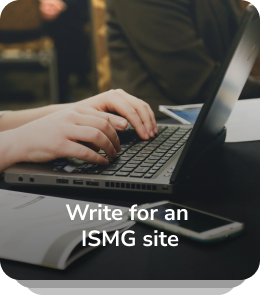
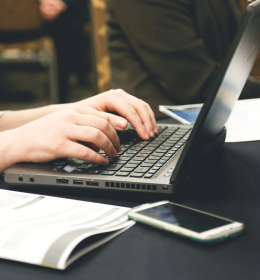
changes

diff --git a/index.html b/index.html
@@ -27,11 +27,11 @@
                 <div class="head-text font-weight-bold pb-4">Personal Branding
                     Opportunities</div>
                 <div class="body-text">Share your influence and build your
-                    personal brand using a variety of
+                    personal brand using a variety o f
                     opportunities
                     provided by
                     CyberEdBoard and ISMG. Simply identify a branding opportunity you would like to contribute to and
-                    send a message to <a class="text-decoration-none text-white"
+                    send a message to <a class="text-white font-weight-bold"
                         href="mailto:info@cyberedboard.io"><i>info@cyberedboard.io</i></a> to schedule.
                 </div>
             </div>
@@ -40,33 +40,100 @@
             <div class="container">
                 <div class="row">
                     <div class="col-lg-3 col-md-4 col-sm-6 col-12 padding-row">
-                        <a href="src/profile-leadership/profile-leadership.html"><img class="img-fluid"
-                                src="assets/images/personal-branding/leadership.png" alt="Profiles in Leadership "></a>
+                        <a href="src/profile-leadership/profile-leadership.html">
+                            <div class="overlay-one">
+                                <div class="overlay-two">
+                                    <img class="img-fluid img-border img-zindex"
+                                        src="assets/images/personal-branding/write-for-site.png"
+                                        alt="Profiles in Leadership ">
+                                    <div class="img-text">
+                                        Profiles in
+                                        Leadership
+                                    </div>
+                                </div>
+                            </div>
+                        </a>
                     </div>
                     <div class="col-lg-3 col-md-4 col-sm-6 col-12 padding-row">
-                        <a href="src/expert-insight-page/expert-insight.html"><img class="img-fluid"
-                                src="assets/images/personal-branding/expert-interview.png"
-                                alt="Expert Insights Interviews"></a>
+                        <a href="src/expert-insight-page/expert-insight.html">
+                            <div class="overlay-one">
+                                <div class="overlay-two">
+                                    <img class="img-fluid img-border img-zindex"
+                                        src="assets/images/personal-branding/expert-interview.png"
+                                        alt="Expert Insights Interviews">
+                                    <div class="img-text">
+                                        Expert Insights Interviews
+                                    </div>
+                                </div>
+                            </div>
+                        </a>
                     </div>
                     <div class="col-lg-3 col-md-4 col-sm-6 col-12 padding-row">
-                        <a href="src/ismg-summit-speakers/summit-speakers.html"><img class="img-fluid"
-                                src="assets/images/personal-branding/speakers.png" alt="ISMG Summit Speakers"></a>
+                        <a href="src/ismg-summit-speakers/summit-speakers.html">
+                            <div class="overlay-one">
+                                <div class="overlay-two">
+                                    <img class="img-fluid img-border img-zindex"
+                                        src="assets/images/personal-branding/speakers.png" alt="ISMG Summit Speakers">
+                                    <div class="img-text">
+                                        ISMG Summit Speakers
+                                    </div>
+                                </div>
+                            </div>
+                        </a>
                     </div>
                     <div class="col-lg-3 col-md-4 col-sm-6 col-12 padding-row">
-                        <a href="src/executive-forum-leader/forum-leader.html"><img class="img-fluid"
-                                src="assets/images/personal-branding/leader.png" alt="Executive Forum Leader"></a>
+                        <a href="src/executive-forum-leader/forum-leader.html">
+                            <div class="overlay-one">
+                                <div class="overlay-two">
+                                    <img class="img-fluid img-border img-zindex"
+                                        src="assets/images/personal-branding/leader.png" alt="Executive Forum Leader">
+                                    <div class="img-text">
+                                        Executive Forum Leader
+                                    </div>
+                                </div>
+                            </div>
+                        </a>
                     </div>
                     <div class="col-lg-3 col-md-4 col-sm-6 col-12 padding-row">
-                        <a href="src/cyberTheory-advisory-board/cyberTheory-advisory-board.html"><img class="img-fluid"
-                                src="assets/images/personal-branding/theory.png" alt="CyberTheory Advisory Board"></a>
+                        <a href="src/cyberTheory-advisory-board/cyberTheory-advisory-board.html">
+                            <div class="overlay-one">
+                                <div class="overlay-two">
+                                    <img class="img-fluid img-border img-zindex"
+                                        src="assets/images/personal-branding/theory.png"
+                                        alt="CyberTheory Advisory Board">
+                                    <div class="img-text">
+                                        CyberTheory Advisory Board
+                                    </div>
+                                </div>
+                            </div>
+                        </a>
                     </div>
                     <div class="col-lg-3 col-md-4 col-sm-6 col-12 padding-row">
-                        <a href="src/cyberEd-faculty/cyberEd-faculty.html"><img class="img-fluid"
-                                src="assets/images/personal-branding/faculty.png" alt="CyberEd.io Faculty"></a>
+                        <a href="src/cyberEd-faculty/cyberEd-faculty.html">
+                            <div class="overlay-one">
+                                <div class="overlay-two">
+                                    <img class="img-fluid img-border img-zindex"
+                                        src="assets/images/personal-branding/faculty.png" alt="CyberEd.io Faculty">
+                                    <div class="img-text">
+                                        CyberEd.io Faculty
+                                    </div>
+                                </div>
+                            </div>
+                        </a>
                     </div>
                     <div class="col-lg-3 col-md-4 col-sm-6 col-12 padding-row">
-                        <a href="src/write-for-site/write-for-ISMG-site.html"><img class="img-fluid"
-                                src="assets/images/personal-branding/write-for-site.png" alt="Write for an ISMG site"></a>
+                        <a href="src/write-for-site/write-for-ISMG-site.html">
+                            <div class="overlay-one">
+                                <div class="overlay-two">
+                                    <img class="img-fluid img-border img-zindex"
+                                        src="assets/images/personal-branding/write-for-site.png"
+                                        alt="Write for an ISMG site">
+                                    <div class="img-text">
+                                        Write for an ISMG site
+                                    </div>
+                                </div>
+                            </div>
+                        </a>
                     </div>
                 </div>
             </div>

diff --git a/assets/css/style.css b/assets/css/style.css
@@ -22,25 +22,86 @@ body {
     color: #fff;
 }
 
-.head-text,
-.brand-head-text {
-    /* font-size: 60px; */
-    font-size: 4em;
-    line-height: 64px;
-    /* padding-bottom: 22px; */
-    width: 50%;
-}
-
 .body-text {
-    font-size: 20px;
     font-size: 1.25em;
     line-height: 24px;
     width: 50%;
 }
 
+.brand-head-text,
+.head-text {
+    font-size: 4em;
+    line-height: 64px;
+    width: 50%;
+}
+
 .category-section {
     padding: 116px 0px 0px;
-    background: #E5E5E5;
+    /* background: #E5E5E5; */
+}
+
+.overlay-one,
+.overlay-two {
+    position: relative;
+}
+
+.overlay-one:after {
+    content: " ";
+    position: absolute;
+    width: 80%;
+    border-radius: 20px;
+    left: 10%;
+    bottom: 0;
+    height: 100%;
+    -moz-box-shadow: 0px 16px 0px #CCCCCC;
+    -webkit-box-shadow: 0px 16px 0px #cccccc;
+    box-shadow: 0px 16px 0px #cccccc;
+    z-index: 9;
+
+}
+
+.overlay-two:before {
+    content: "";
+    position: absolute;
+    width: 100%;
+    height: 100%;
+    background-image: linear-gradient(180deg, rgba(0, 0, 0, 0) 0%, rgba(0, 0, 0, 0.8) 100%);
+    border-radius: 20px;
+    z-index: 100;
+}
+
+.overlay-two:after {
+    z-index: 10;
+    content: " ";
+    position: absolute;
+    width: 90%;
+    border-radius: 20px;
+    left: 5%;
+    bottom: 0;
+    height: 100%;
+    -moz-box-shadow: 0px 8px 0px #a6a6a6;
+    -webkit-box-shadow: 0px 8px 0px #a6a6a6;
+    box-shadow: 0px 8px 0px #a6a6a6;
+}
+
+
+.img-text {
+    position: absolute;
+    z-index: 101;
+    font-size: 1.375em;
+    line-height: 30px;
+    color: #FFFFFF;
+    font-weight: bold;
+    width: 65%;
+    bottom: 8%;
+    left: 50%;
+    transform: translateX(-50%);
+    text-align: center;
+}
+
+.img-zindex {
+    position: relative;
+    z-index: 99;
 }
 
 .padding-row {
@@ -124,7 +185,7 @@ body {
     left: 50%;
     transform: translate(-50%, 0%);
     font-weight: 700;
-    font-size: 20px;
+    font-size: 1.25em;
     line-height: 22px;
     z-index: 99;
 }
@@ -159,8 +220,7 @@ body {
     position: absolute;
     width: auto;
     height: 100%;
-    background-image: linear-gradient(180deg, rgba(0, 0, 0, 0) 0%, rgba(0, 0, 0, 0.8) 100%);
-    backdrop-filter: blur(2px);
+    background-image: linear-gradient(180deg, rgba(0, 0, 0, 0) 0%, rgba(0, 0, 0, 0.6) 100%);
     border-radius: 20px;
     transition: .4s ease-in-out;
 }

diff --git a/src/profile-leadership/profile-leadership.html b/src/profile-leadership/profile-leadership.html
@@ -22,14 +22,15 @@
 <body>
     <div>
         <div class="expert-banner-img">
-            <!-- <img class="img-fluid expert-banner-img w-100" src="../../assets/images/mask-background.png" alt=""> -->
             <div class=" expert-banner">
                 <div class="brand-head-text pb-4 text-white font-weight-bold">Profiles in Leadership</div>
                 <div class="body-text pb-5 text-white">
                     Schedule your Profiles in Leadership interview with ISMGs award winning editorial team and share
                     your leadership philosophies, career accomplishments and personal perspectives about cybersecurity.
                     Interviews will be published to ISMGs global media sites and shared on social media so your
-                    influence can be shared with security leaders worldwide.
+                    influence can be shared with security leaders worldwide. If you would like to contribute please send
+                    a message to <a class="text-white font-weight-bold"
+                    href="mailto:info@cyberedboard.io"><i>info@cyberedboard.io</i></a> to schedule.
 
                 </div>
             </div>

diff --git a/src/write-for-site/write-for-ISMG-site.html b/src/write-for-site/write-for-ISMG-site.html
@@ -22,13 +22,14 @@
 <body>
     <div>
         <div class="expert-banner-img">
-            <!-- <img class="img-fluid expert-banner-img w-100" src="../../assets/images/mask-background.png" alt=""> -->
             <div class="expert-banner">
                 <div class="brand-head-text pb-4 text-white font-weight-bold">Write for an ISMG site</div>
                 <div class="body-text pb-5 text-white">
                     Share your professional insights in an article or ongoing blog that will be published on the ISMG
                     global media sites. The award winning editorial team is available to assist along the way ensuring
-                    the highest quality output possible.
+                    the highest quality output possible. If you would like to contribute please send
+                    a message to <a class="text-white font-weight-bold"
+                        href="mailto:info@cyberedboard.io"><i>info@cyberedboard.io</i></a> to schedule.
                 </div>
             </div>
         </div>

diff --git a/src/expert-insight-page/expert-insight.html b/src/expert-insight-page/expert-insight.html
@@ -22,13 +22,14 @@
 <body>
     <div>
         <div class="expert-banner-img">
-            <!-- <img class="img-fluid expert-banner-img w-100" src="../../assets/images/mask-background.png" alt=""> -->
             <div class="expert-banner">
                 <div class="brand-head-text pb-4 text-white font-weight-bold">Expert Insights</div>
                 <div class="body-text pb-5 text-white">
                     Contribute your perspectives on a variety of topics with the ISMG editorial team. Expert insight
                     interviews and panels are an excellent way to share your thoughts on issues that you are passionate
-                    about.
+                    about. If you would like to contribute please send
+                    a message to <a class="text-white font-weight-bold"
+                        href="mailto:info@cyberedboard.io"><i>info@cyberedboard.io</i></a> to schedule.
                 </div>
             </div>
         </div>

diff --git a/src/ismg-summit-speakers/summit-speakers.html b/src/ismg-summit-speakers/summit-speakers.html
@@ -22,12 +22,13 @@
 <body>
     <div>
         <div class="expert-banner-img">
-            <!-- <img class="img-fluid expert-banner-img w-100" src="../../assets/images/mask-background.png" alt=""> -->
             <div class="expert-banner">
                 <div class="brand-head-text pb-4 text-white font-weight-bold">ISMG Summit Speakers</div>
                 <div class="body-text pb-5 text-white">
                     Educate the cybersecurity community as a featured presenter or panelist at an upcoming ISMG global
-                    cybersecurity summit.
+                    cybersecurity summit. If you would like to contribute please send
+                    a message to <a class="text-white font-weight-bold"
+                        href="mailto:info@cyberedboard.io"><i>info@cyberedboard.io</i></a> to schedule.
                 </div>
             </div>
         </div>

diff --git a/src/cyberEd-faculty/cyberEd-faculty.html b/src/cyberEd-faculty/cyberEd-faculty.html
@@ -22,7 +22,6 @@
 <body>
     <div>
         <div class="expert-banner-img">
-            <!-- <img class="img-fluid expert-banner-img w-100" src="../../assets/images/mask-background.png" alt=""> -->
             <div class="expert-banner">
                 <div class="brand-head-text pb-4 text-white font-weight-bold">CyberEd.io Faculty</div>
                 <div class="body-text pb-5 text-white">

diff --git a/src/cyberTheory-advisory-board/cyberTheory-advisory-board.html b/src/cyberTheory-advisory-board/cyberTheory-advisory-board.html
@@ -22,7 +22,6 @@
 <body>
     <div>
         <div class="expert-banner-img">
-            <!-- <img class="img-fluid  w-100" src="../../assets/images/mask-background.png" alt=""> -->
             <div class="expert-banner">
                 <div class="brand-head-text pb-4 text-white font-weight-bold">CyberTheory Advisory Board</div>
                 <div class="body-text pb-5 text-white ">

diff --git a/src/executive-forum-leader/forum-leader.html b/src/executive-forum-leader/forum-leader.html
@@ -22,7 +22,6 @@
 <body>
     <div>
         <div class="expert-banner-img">
-            <!-- <img class="img-fluid  w-100" src="../../assets/images/mask-background.png" alt=""> -->
             <div class="expert-banner">
                 <div class="brand-head-text pb-4 text-white font-weight-bold">Executive Forum Leader</div>
                 <div class="body-text pb-5 text-white ">
